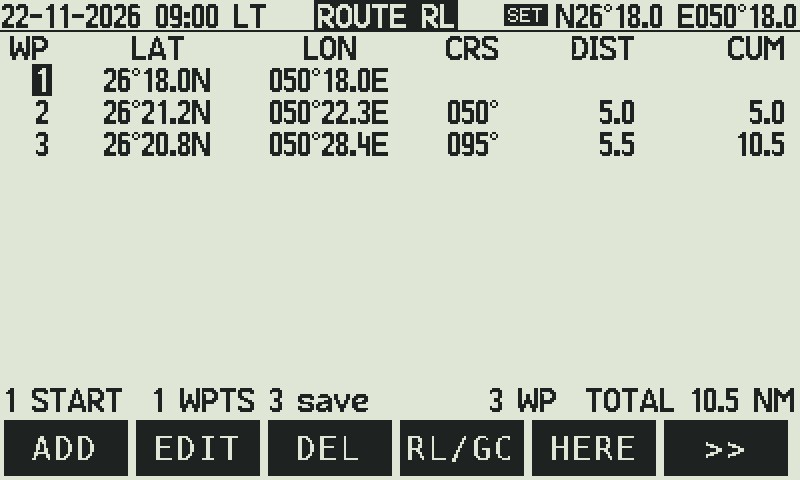
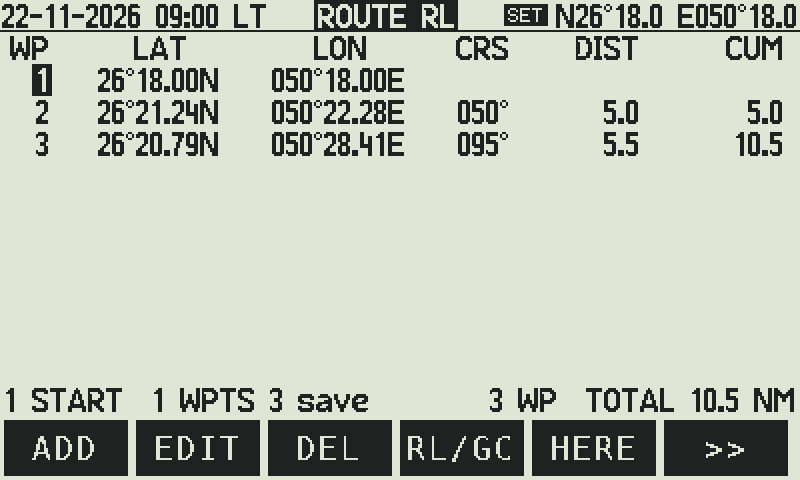
Route: at most 1-10 turning points a leg round the zones; the points to 0.01' (web and calculator)
Web planner: turning points "no limit" or "at most 1 .. 10" a leg. The search first as before; when its route turns
more, a Dijkstra over (corner, turns used) finds the shortest within the limit (else within 1 more .. 10, said as
"Leg i: needs N turning points"). Every point of the plan is rounded to 0.01' of arc: of the 4 nearest, the one
farthest from the zones (a point already on the grid, typed or a joint, stays), then the leg is checked again with
exact distances as sailed and the margins widened if it comes closer. Positions shown to 0.01' (FMT.lat / lon).
Calculator: ROUTE, PLAN, COMPARE, VOYAGE show the points to 0.01' (fmt_dmn2), the columns wider; typing 26.3012 =
26 30.12. Checked on the example field's 156 passages at 90 m: no limit 339.2 NM; at most 3 +0.8 %, 2 +3.5 %, 1
+7.4 % (2 legs need 2); never over the limit unsaid, never under 90 m, start / end never under 50 m (50.4), every
point on the grid, 14 ms the slowest. make check; the manual's pictures and text.

diff --git a/web/app.js b/web/app.js
@@ -8,13 +8,14 @@ const esc = s => String(s).replace(/[&<>"]/g, c => ({ "&": "&amp;", "<": "&lt;",
 
 /* ---------------------------------------------------------------- formats */
 const FMT = {
-  dm(v, w) {                                                  /* 47°43.7′ */
-    let a = Math.abs(v), d = Math.floor(a), m = Math.round((a - d) * 600) / 10;
+  dm(v, w, dec = 1) {                                         /* 47°43.7′ (an angle); positions dec 2: 26°30.12′ */
+    const f = 10 ** dec;
+    let a = Math.abs(v), d = Math.floor(a), m = Math.round((a - d) * 60 * f) / f;
     if (m >= 60) { d++; m = 0; }
-    return String(d).padStart(w || 0, "0") + "°" + m.toFixed(1).padStart(4, "0") + "′";
+    return String(d).padStart(w || 0, "0") + "°" + m.toFixed(dec).padStart(3 + dec, "0") + "′";
   },
-  lat: v => FMT.dm(v, 2) + (v < 0 ? "S" : "N"),
-  lon(v) { v = ((v + 540) % 360) - 180; return FMT.dm(v, 3) + (v < 0 ? "W" : "E"); },
+  lat: v => FMT.dm(v, 2, 2) + (v < 0 ? "S" : "N"),
+  lon(v) { v = ((v + 540) % 360) - 180; return FMT.dm(v, 3, 2) + (v < 0 ? "W" : "E"); },
   pos: (la, lo) => FMT.lat(la) + " " + FMT.lon(lo),
   crs: v => String(Math.round(((v % 360) + 360) % 360) % 360).padStart(3, "0") + "°",
   nm: m => (m / NM).toFixed(1),
@@ -105,7 +106,7 @@ const S = {
   live: true, jd: jdOf(Date.now()),
   pos: store.get("pos", [26 + 30 / 60, 50 + 10 / 60]),
   times: store.get("times", "ut") === "ut" ? "ut" : "zt",
-  route: Object.assign({ wps: [], sail: 1, lim: 60, split: 0, val: 10, ell: 0, avoid: true, speed: 12, etd: null, margin: 50, clear: 50, len: 95 },
+  route: Object.assign({ wps: [], sail: 1, lim: 60, split: 0, val: 10, ell: 0, avoid: true, speed: 12, etd: null, margin: 50, clear: 50, len: 95, turns: 0 },
                        store.get("route", {})),
   objects: store.get("objects", []),
   view: store.get("view", { mode: "merc", lat0: 30, lon0: 10, k: 220 }),
@@ -294,7 +295,7 @@ function ends(w) {
   }
   return { pts: [{ lat: w.lat, lon: w.lon }], obj: o, R: 0 };
 }
-function avoidLeg(As, Bs, zones, clr, M) {
+function avoidLeg(As, Bs, zones, clr, M, maxT) {
   const a0 = As.pts[0], b0 = Bs.pts[0];
   const ab = NAV.inv(a0.lat, a0.lon, b0.lat, b0.lon), mid = NAV.dir(a0.lat, a0.lon, ab.a1, ab.s / 2);
   const ae = aePlane(mid.lat, mid.lon), L = ab.s;
@@ -329,29 +330,38 @@ function avoidLeg(As, Bs, zones, clr, M) {
         const a = (i + 0.5) * 2 * Math.PI / AV.NV, x = z.x + z.r * rv * Math.sin(a), y = z.y + z.r * rv * Math.cos(a);
         if (!inside(x, y, near)) nodes.push({ x, y, t: 0 });
       }
-    /* Dijkstra from all the starts (distance 0) to the first end reached */
-    const n = nodes.length, dist = new Float64Array(n).fill(Infinity), prev = new Int32Array(n).fill(-1), done = new Uint8Array(n);
-    nodes.forEach((p, i) => { if (p.t === 1) dist[i] = 0; });
+    /* Dijkstra from all the starts (distance 0) to the first end reached. With a turn budget K (maxT): the states are
+       (node, turns used), a corner of a zone a turn; K + 1 layers, the first end reached the shortest within K */
+    const n = nodes.length, K = maxT > 0 ? maxT : 0, L = K + 1, ns = n * L;
+    const dist = new Float64Array(ns).fill(Infinity), prev = new Int32Array(ns).fill(-1), done = new Uint8Array(ns);
+    const vis = new Int8Array(n * n);                       /* clear sight between two nodes: 0 not known, 1 yes, -1 no */
+    const sees = (u, v) => { const k = u * n + v; if (!vis[k]) vis[k] = vis[v * n + u] = clear(nodes[u].x, nodes[u].y, nodes[v].x, nodes[v].y, act) ? 1 : -1; return vis[k] > 0; };
+    nodes.forEach((p, i) => { if (p.t === 1) dist[i * L] = 0; });
     let end = -1;
     for (;;) {
       let u = -1, best = Infinity;
-      for (let i = 0; i < n; i++) if (!done[i] && dist[i] < best) { best = dist[i]; u = i; }
+      for (let i = 0; i < ns; i++) if (!done[i] && dist[i] < best) { best = dist[i]; u = i; }
       if (u < 0) break;
       done[u] = 1;
-      if (nodes[u].t === 2) { end = u; break; }
-      const pu = nodes[u];
+      const un = (u / L) | 0, uk = u % L;
+      if (nodes[un].t === 2) { end = u; break; }
+      const pu = nodes[un];
       for (let v = 0; v < n; v++) {
-        if (done[v] || nodes[v].t === 1) continue;
+        if (nodes[v].t === 1) continue;
+        const vk = maxT > 0 ? uk + (nodes[v].t === 0 ? 1 : 0) : 0;
+        if (vk >= L) continue;
+        const vs = v * L + vk;
+        if (done[vs]) continue;
         const pv = nodes[v], d = best + Math.hypot(pv.x - pu.x, pv.y - pu.y);
-        if (d < dist[v] && clear(pu.x, pu.y, pv.x, pv.y, act)) { dist[v] = d; prev[v] = u; }
+        if (d < dist[vs] && sees(un, v)) { dist[vs] = d; prev[vs] = u; }
       }
     }
     if (end < 0) {                                          /* boxed in by zones not yet in the search: all of them in */
       if (active.size < near.length) { near.forEach(z => active.add(z)); continue; }
-      return { ok: false, why: "no way round the zones" };
+      return { ok: false, why: maxT > 0 ? `no way round the zones with ${maxT} turning point${maxT > 1 ? "s" : ""}` : "no way round the zones", turns: maxT > 0 };
     }
     path = [];
-    for (let i = end; i >= 0; i = prev[i]) path.unshift(nodes[i]);
+    for (let i = end; i >= 0; i = prev[i]) path.unshift(nodes[(i / L) | 0]);
     let added = false;                                      /* zones the path crosses that were not in the search */
     for (let i = 1; i < path.length; i++)
       for (const z of near)
@@ -366,6 +376,37 @@ function avoidLeg(As, Bs, zones, clr, M) {
     tight.push(path[j]); i = j;
   }
   return { ok: true, pts: tight.map(p => { const [la, lo] = ae.inv(p.x, p.y); return { lat: la, lon: lo, t: p.t }; }) };
+}
+/* a leg with at most maxT turning points (0: no limit): the shortest first; when it turns more, the shortest within
+   maxT, else within maxT + 1 .. 10 (said in the warnings), else the shortest as it is */
+const turnsOf = leg => leg.pts.filter(p => p.t === 0).length;
+function turnsLeg(from, to, zones, clr, M, maxT, i, warn) {
+  const leg = avoidLeg(from, to, zones, clr, M, 0);
+  if (!leg.ok || !(maxT > 0) || turnsOf(leg) <= maxT) return leg;
+  for (let k = maxT; k <= 10; k++) {
+    const l = avoidLeg(from, to, zones, clr, M, k);
+    if (l.ok) { if (k > maxT && !warn.some(w => w.startsWith(`Leg ${i}: `))) warn.push(`Leg ${i}: needs ${k} turning points (asked ${maxT}).`); return l; }
+  }
+  warn.push(`Leg ${i}: more than 10 turning points needed; planned with ${turnsOf(leg)}.`);
+  return leg;
+}
+/* the points to 0.01' of arc: of the 4 nearest on that grid, the one farthest from the zones (clr off the others, off
+   its own ends' zones), so the rounding never takes the route closer; legKeeps checks it after */
+const G01 = 1 / 6000;
+function roundPts(pts, zones, clr, oa, ob) {
+  const on = v => Math.abs(v / G01 - Math.round(v / G01)) < 1e-3;   /* already on the grid (typed, a joint, 7 decimals): as it is */
+  return pts.map(p => {
+    if (on(p.lat) && on(p.lon)) return p;
+    const near = zones.filter(z => Math.abs(z.lat - p.lat) < 0.1 && Math.abs(nearLon(z.lon, p.lon) - p.lon) < 0.1);
+    let best = null, bs = -Infinity;
+    for (const la of [Math.floor(p.lat / G01) * G01, Math.ceil(p.lat / G01) * G01])
+      for (const lo of [Math.floor(p.lon / G01) * G01, Math.ceil(p.lon / G01) * G01]) {
+        let sc = Infinity;
+        for (const z of near) sc = Math.min(sc, NAV.inv(la, lo, z.lat, z.lon).s - z.r - (z === oa || z === ob ? 0 : clr));
+        if (sc > bs + 1e-9) { bs = sc; best = { lat: la, lon: lo, t: p.t }; }
+      }
+    return best;
+  });
 }
 /* does a planned leg, as sailed, keep clr off every zone (its own ends: off the zone itself)? exact distances */
 function legKeeps(pts, zones, clr, oa, ob) {
@@ -406,8 +447,14 @@ function compute() {
         if (to.wide) warn.push(`${esc(to.obj.name)}: its ${R.margin} m ring is inside other zones; the route ends ${Math.round(to.R - to.obj.r)} m outside its zone.`);
         if (i === 1 && from.wide) warn.push(`${esc(from.obj.name)}: its ${R.margin} m ring is inside other zones; the route starts ${Math.round(from.R - from.obj.r)} m outside its zone.`);
         for (const clr of [R.clear, R.clear / 2, 0]) {
-          /* tight margins first; the leg checked with exact distances as sailed; wider until it keeps clr */
-          for (const M of AV.MS) { leg = avoidLeg(from, to, zones, clr, M); if (!leg.ok || legKeeps(leg.pts, zones, clr, from.obj, to.obj)) break; }
+          /* tight margins first; at most R.turns turning points; the points to 0.01'; the leg checked with exact
+             distances as sailed; wider margins until it keeps clr */
+          for (const M of AV.MS) {
+            leg = turnsLeg(from, to, zones, clr, M, R.turns, i, warn);
+            if (!leg.ok) break;
+            leg.pts = roundPts(leg.pts, zones, clr, from.obj, to.obj);
+            if (legKeeps(leg.pts, zones, clr, from.obj, to.obj)) break;
+          }
           if (leg.ok) { if (clr < R.clear) warn.push(`Leg ${i}: no way with ${R.clear} m clearance; planned with ${clr} m.`); break; }
           if (clr === 0) break;
         }
@@ -1117,6 +1164,7 @@ function routeCard() {
       <label><input type="checkbox" id="avoid" ${R.avoid ? "checked" : ""}> keep out of the zones</label>
       <label ${R.avoid ? "" : "hidden"}>pass zones by ≥ <input class="num" id="clear" type="number" min="0" step="10" value="${R.clear}"> m</label>
       <label ${R.avoid ? "" : "hidden"}>start / end <input class="num" id="margin" type="number" min="0" step="10" value="${R.margin}"> m outside the object's zone</label>
+      <label ${R.avoid ? "" : "hidden"} title="the most turning points round the zones on each leg (between two of your waypoints): fewer turns, maybe a little longer">turning points <select id="turns"><option value="0">no limit</option>${[1, 2, 3, 4, 5, 6, 7, 8, 9, 10].map(k => `<option value="${k}">at most ${k}</option>`).join("")}</select> a leg</label>
     </div>
     <h3>Waypoints <span class="meta">(click on the chart with ＋ Waypoint; on an object: from / to it)</span></h3>
     <div class="scroll" style="max-height:260px"><table id="wptab"><tr><th>#</th><th>Name</th><th>Position</th><th>Object</th><th></th></tr>
@@ -1144,6 +1192,7 @@ function routeCard() {
   $("splitv").onchange = e => { R.val = Math.max(0, +e.target.value || 0); upd(); };
   $("avoid").onchange = e => { R.avoid = e.target.checked; upd(); };
   $("margin").onchange = e => { const v = parseFloat(e.target.value); R.margin = Number.isFinite(v) ? Math.max(0, v) : 50; upd(); };
+  $("turns").value = String(R.turns || 0); $("turns").onchange = e => { R.turns = +e.target.value; upd(); };
   $("clear").onchange = e => { const v = parseFloat(e.target.value); R.clear = Number.isFinite(v) ? Math.max(0, v) : 0; upd(); };
   document.querySelectorAll("[data-wn]").forEach(i => i.onchange = e => { R.wps[+i.dataset.wn].name = e.target.value; upd(); });
   document.querySelectorAll("[data-wp]").forEach(i => i.onchange = e => { const p = parsePos(e.target.value), w = R.wps[+i.dataset.wp];

diff --git a/web/index.html b/web/index.html
@@ -28,7 +28,7 @@
   button.on { background: var(--accent); color: #fff; border-color: var(--accent); }
   button.small { padding: 2px 7px; font-size: 13px; }
   label { color: var(--soft); font-size: 13px; }
-  input.pos { width: 13em; } input.num { width: 5.5em; } input.name { width: 9em; }
+  input.pos { width: 14.5em; } input.num { width: 5.5em; } input.name { width: 9em; }
   .tabs { display: flex; flex-wrap: wrap; gap: 4px; padding: 4px 16px 0; }
   .tab { border-radius: 999px; padding: 4px 14px; }
   main { padding: 0 16px 24px; }
@@ -58,7 +58,7 @@
          font-size: 12.5px; white-space: nowrap; display: none; box-shadow: 0 2px 8px rgba(0,0,0,.15); }
   .legend { display: flex; flex-wrap: wrap; gap: 4px 14px; font-size: 12.5px; color: var(--soft); margin-top: 6px; }
   .legend svg { display: inline-block; width: auto; vertical-align: middle; }
-  .split .card input.pos { width: 11.6em; font-size: 13px; } .split .card input.name { width: 6.5em; font-size: 13px; }
+  .split .card input.pos { width: 13em; font-size: 13px; } .split .card input.name { width: 6.5em; font-size: 13px; }
   .split .card td select { max-width: 7.5em; font-size: 13px; padding: 3px 4px; } .split .card td input { padding: 3px 5px; }
   .split .card td { padding: 3px 3px; }
   .two { display: grid; grid-template-columns: 1fr 1fr; gap: 14px; align-items: start; }

diff --git a/src/route_ui.c b/src/route_ui.c
@@ -113,11 +113,11 @@ void draw_route(void) {
   for (int i = 1; i < N->nwp; i++) { leg(i, &crs, &nm); tot += nm; }
   if (N->cfg.gc == 2) sprintf(s, "ROUTE CS %.0f", cs_lim); else strcpy(s, N->cfg.gc ? "ROUTE GC" : "ROUTE RL");
   header(s);
-  int xw = 4 + nt_w("100"), xla = xw + 10 + nt_w("00" NT_DEG "00.0N"), xlo = xla + 12 + nt_w("000" NT_DEG "00.0E"),
+  int xw = 4 + nt_w("100"), xla = xw + 10 + nt_w("00" NT_DEG "00.00N"), xlo = xla + 12 + nt_w("000" NT_DEG "00.00E"),
       xc = xlo + 12 + nt_w("000" NT_DEG), xd = xc + 12 + nt_w("0000.0"), xcu = xd + 12 + nt_w("00000.0");
   int e = (396 - xcu) / 5;
   if (e > 0) { xla += e; xlo += 2 * e; xc += 3 * e; xd += 4 * e; xcu += 5 * e; }
-  nt_r(xw, 16, "WP"); nt_c(xla - nt_w("00" NT_DEG "00.0N") / 2, 16, "LAT"); nt_c(xlo - nt_w("000" NT_DEG "00.0E") / 2, 16, "LON");
+  nt_r(xw, 16, "WP"); nt_c(xla - nt_w("00" NT_DEG "00.00N") / 2, 16, "LAT"); nt_c(xlo - nt_w("000" NT_DEG "00.00E") / 2, 16, "LON");
   nt_r(xc, 16, N->cfg.gc ? "ICRS" : "CRS"); nt_r(xd, 16, "DIST"); nt_r(xcu, 16, "CUM");
   if (!N->nwp) {
     nt(4, 48, "No waypoints yet.");
@@ -150,13 +150,13 @@ void draw_route(void) {
     if (i == wp_cur && wp_edit >= 0) {
       if (wp_edit == 0) { sprintf(s, "%s_", ebuf); nt_r(xla, y, s); }
       else {
-        fmt_dmn(s, wp_lat, 2, wp_lat < 0 ? 'S' : 'N'); nt_r(xla, y, s);
+        fmt_dmn2(s, wp_lat, 2, wp_lat < 0 ? 'S' : 'N'); nt_r(xla, y, s);
         sprintf(s, "%s_", ebuf); nt_r(xlo, y, s);
       }
       continue;
     }
-    fmt_dmn(s, N->wlat[i], 2, N->wlat[i] < 0 ? 'S' : 'N'); nt_r(xla, y, s);
-    fmt_dmn(s, N->wlon[i], 3, N->wlon[i] < 0 ? 'W' : 'E'); nt_r(xlo, y, s);
+    fmt_dmn2(s, N->wlat[i], 2, N->wlat[i] < 0 ? 'S' : 'N'); nt_r(xla, y, s);
+    fmt_dmn2(s, N->wlon[i], 3, N->wlon[i] < 0 ? 'W' : 'E'); nt_r(xlo, y, s);
     if (i > 0) {
       leg(i, &crs, &nm);
       cum += nm;
@@ -225,12 +225,12 @@ void draw_plan(void) {
   if (plan_split == SPLIT_NONE) sprintf(s, "PLAN %s", SAIL_NAME[N->cfg.gc % 3]);
   else sprintf(s, "PLAN %s %g %s", SAIL_NAME[N->cfg.gc % 3], plan_val, SPL[plan_split]);
   header(s);
-  int xw = 6 + nt_w("*000"), xla = xw + 10 + nt_w("00" NT_DEG "00.0N"), xlo = xla + 12 + nt_w("000" NT_DEG "00.0E"),
+  int xw = 6 + nt_w("*000"), xla = xw + 10 + nt_w("00" NT_DEG "00.00N"), xlo = xla + 12 + nt_w("000" NT_DEG "00.00E"),
       xc = xlo + 12 + nt_w("000" NT_DEG), xd = xc + 12 + nt_w("0000.0"), xcu = xd + 12 + nt_w("00000.0"),
       xk = xcu + 8 + nt_w("P");
   int e = (396 - xk) / 6;
   if (e > 0) { xla += e; xlo += 2 * e; xc += 3 * e; xd += 4 * e; xcu += 5 * e; xk += 6 * e; }
-  nt_r(xw, 16, "WP"); nt_c(xla - nt_w("00" NT_DEG "00.0N") / 2, 16, "LAT"); nt_c(xlo - nt_w("000" NT_DEG "00.0E") / 2, 16, "LON");
+  nt_r(xw, 16, "WP"); nt_c(xla - nt_w("00" NT_DEG "00.00N") / 2, 16, "LAT"); nt_c(xlo - nt_w("000" NT_DEG "00.00E") / 2, 16, "LON");
   nt_r(xc, 16, "STEER"); nt_r(xd, 16, "LEG"); nt_r(xcu, 16, "CUM");
   if (R->n < 2 && N->nwp >= 2) plan_build();             /* once more, from the start */
   if (R->n < 2) {
@@ -249,8 +249,8 @@ void draw_plan(void) {
     int y = 32 + NT_ROW * (i - top);
     sprintf(s, "%s%d", (w->flags & WPT_USER) ? "*" : "", i + 1);
     if (i == plan_cur) nt_inv(xw - nt_w(s), y, s); else nt_r(xw, y, s);
-    fmt_dmn(s, w->lat, 2, w->lat < 0 ? 'S' : 'N'); nt_r(xla, y, s);
-    fmt_dmn(s, w->lon, 3, w->lon < 0 ? 'W' : 'E'); nt_r(xlo, y, s);
+    fmt_dmn2(s, w->lat, 2, w->lat < 0 ? 'S' : 'N'); nt_r(xla, y, s);
+    fmt_dmn2(s, w->lon, 3, w->lon < 0 ? 'W' : 'E'); nt_r(xlo, y, s);
     if (i > 0) {
       sprintf(s, "%03.0f" NT_DEG, fmod(floor(R->w[i - 1].rl_crs + 0.5), 360.0)); nt_r(xc, y, s);
       sprintf(s, "%.1f", w->leg_m / NM); nt_r(xd, y, s);
@@ -360,9 +360,9 @@ void draw_cmp(void) {
   header(s);
   cmp_ell_line();
   y = 32;  nt(4, y, "FROM");
-  fmt_dmn(t, la1, 2, la1 < 0 ? 'S' : 'N'); nt_r(xg, y, t); fmt_dmn(t, lo1, 3, lo1 < 0 ? 'W' : 'E'); nt_r(xr, y, t);
+  fmt_dmn2(t, la1, 2, la1 < 0 ? 'S' : 'N'); nt_r(xg, y, t); fmt_dmn2(t, lo1, 3, lo1 < 0 ? 'W' : 'E'); nt_r(xr, y, t);
   y = 48;  nt(4, y, "TO");
-  fmt_dmn(t, la2, 2, la2 < 0 ? 'S' : 'N'); nt_r(xg, y, t); fmt_dmn(t, lo2, 3, lo2 < 0 ? 'W' : 'E'); nt_r(xr, y, t);
+  fmt_dmn2(t, la2, 2, la2 < 0 ? 'S' : 'N'); nt_r(xg, y, t); fmt_dmn2(t, lo2, 3, lo2 < 0 ? 'W' : 'E'); nt_r(xr, y, t);
   y = 72;  nt_r(xg, y, "GEODESIC"); nt_r(xr, y, "RHUMB");
   y = 88;  nt(4, y, "DIST NM");
   sprintf(t, "%.1f", sg / NM); nt_r(xg, y, t); sprintf(t, "%.1f", sr / NM); nt_r(xr, y, t);
@@ -375,7 +375,7 @@ void draw_cmp(void) {
   y = 136; nt(4, y, "GC SAVES");
   sprintf(t, "%.1f NM  %.1f%%", (sr - sg) / NM, sr > 0 ? 100.0 * (sr - sg) / sr : 0.0); nt_r(xr, y, t);
   y = 152; nt(4, y, in ? "VERTEX" : "VERTEX (off leg)");
-  fmt_dmn(t, latv, 2, latv < 0 ? 'S' : 'N'); nt_r(xg, y, t); fmt_dmn(t, lonv, 3, lonv < 0 ? 'W' : 'E'); nt_r(xr, y, t);
+  fmt_dmn2(t, latv, 2, latv < 0 ? 'S' : 'N'); nt_r(xg, y, t); fmt_dmn2(t, lonv, 3, lonv < 0 ? 'W' : 'E'); nt_r(xr, y, t);
   y = 168;
   if (in && fabs(latv) > cs_lim) {
     double cc, cn;
@@ -719,9 +719,9 @@ void draw_voy(void) {
   sprintf(t, "%.1f", sd / NM); nt(X, y, "RUN NM"); nt_r(XR, y, t); y += 16;
   sprintf(t, "%.1f", (tot - sd) / NM); nt(X, y, "DTG NM"); nt_r(XR, y, t); y += 16;
   sprintf(t, "%03.0f" NT_DEG "  %.4g kn", crs, voy_kn); nt(X, y, "CRS"); nt_r(XR, y, t); y += 16;
-  fmt_dmn(t, lat, 2, lat < 0 ? 'S' : 'N'); nt_r(XR, y, t); y += 16;
+  fmt_dmn2(t, lat, 2, lat < 0 ? 'S' : 'N'); nt_r(XR, y, t); y += 16;
   double lo = fmod(lon + 540.0, 360.0) - 180;
-  fmt_dmn(t, lo, 3, lo < 0 ? 'W' : 'E'); nt_r(XR, y, t); y += 16;
+  fmt_dmn2(t, lo, 3, lo < 0 ? 'W' : 'E'); nt_r(XR, y, t); y += 16;
   int pw = XR - X, px = (int)((double)pw * voy_step / VOY_STEPS);            /* the progress */
   gfx_frame(X, y + 2, pw, 8); gfx_rect(X, y + 2, px, 8, 1);
   if (voy_step >= VOY_STEPS) strcpy(s, plane ? "LANDED  R/S again" : "ARRIVED  R/S again");

diff --git a/src/main.c b/src/main.c
@@ -108,6 +108,14 @@ void fmt_dmn(char *s, double deg, int ddig, char hemi) {     /* 26°30.0N 050°1
   sprintf(s, ddig == 3 ? "%03d" NT_DEG "%04.1f%c" : "%02d" NT_DEG "%04.1f%c", d, m, hemi);
 }
 
+void fmt_dmn2(char *s, double deg, int ddig, char hemi) {    /* to 0.01': 26°30.12N 050°10.05E (the route's points) */
+  double a = fabs(deg);
+  int d = (int)a;
+  double m = (a - d) * 60.0;
+  if (m >= 59.995) { d++; m = 0.0; }
+  sprintf(s, ddig == 3 ? "%03d" NT_DEG "%05.2f%c" : "%02d" NT_DEG "%05.2f%c", d, m, hemi);
+}
+
 static const char *MON[12] = { "Jan", "Feb", "Mar", "Apr", "May", "Jun", "Jul", "Aug", "Sep", "Oct", "Nov", "Dec" };
 static const char *WDAY[7] = { "SUN", "MON", "TUE", "WED", "THU", "FRI", "SAT" };
 

diff --git a/src/app.h b/src/app.h
@@ -115,6 +115,7 @@ void bar_at(double ut, const char *name);
 void fmt_dm3(char *s, double v, int lat);
 void header(const char *name);
 void fmt_dmn(char *s, double deg, int ddig, char hemi);
+void fmt_dmn2(char *s, double deg, int ddig, char hemi);   /* to 0.01' (the route's points) */
 double parse_dm(const char *s);
 char *read_text(const char *path);
 void cfg_save(void);

diff --git a/docs/manual/03-web.md b/docs/manual/03-web.md
@@ -24,7 +24,7 @@ The top bar, on every tab: **Now** (the clock) or a fixed UT; the **DR**, your p
 | Card | |
 |---|---|
 | the chart | Mercator or the globe; drag, zoom with the wheel, **Fit**; the coastline (Natural Earth); your objects and their keep-out zones; the plan in blue |
-| **Route** | the waypoints (click the chart with **＋ Waypoint**, or type); **Passage**: from one object to another, round every zone; the sailing (RL, GC, CS), the ellipsoid, the split; *keep out of the zones* with a clearance |
+| **Route** | the waypoints (click the chart with **＋ Waypoint**, or type); **Passage**: from one object to another, round every zone; the sailing (RL, GC, CS), the ellipsoid, the split; *keep out of the zones* with a clearance (**pass zones by**: the least, the route the shortest that keeps it, a few metres over), **start / end** outside the objects (0 m: on their zone), **turning points**: at most 1–10 a leg round the zones (fewer turns, a little longer; "needs N" when there is no way with fewer); every point of the plan to 0.01′, rounded away from the zones and checked again |
 | **Check** | the route against the coastline (Natural Earth 50 m) and your zones: the closest pass, legs over land or into a zone in red |
 | **Plan** | every point: course to steer, leg, cumulative distance, ETA. **CSV**, **NMEA**, **GPX**, **ROUTE.TXT**, **WAYPTS.CSV**; **To the calculator** sends the route and your objects to the Calculator tab |
 | **Voyage** | speed, departure, arrival (typed: the speed it needs); **Play** sails the plan with the Mermaid Asiana; the ETA at slower speeds |

diff --git a/docs/manual/01-calculator.md b/docs/manual/01-calculator.md
@@ -143,7 +143,7 @@ TIDE keeps the station's own time zone, as a printed tide table does.
 
 ![ROUTE](img/calc_route.png)
 
-Your waypoints (up to 100) and each leg from the one before: **CRS** (true), **DIST** and **CUM** in nautical miles,
+Your waypoints (up to 100), their positions to 0.01′ (as the web page plans them; type 26.3012 for 26°30.12′), and each leg from the one before: **CRS** (true), **DIST** and **CUM** in nautical miles,
 the total at the bottom. The name of the waypoint under the cursor shows at the bottom left.
 
 | Key | Does |
